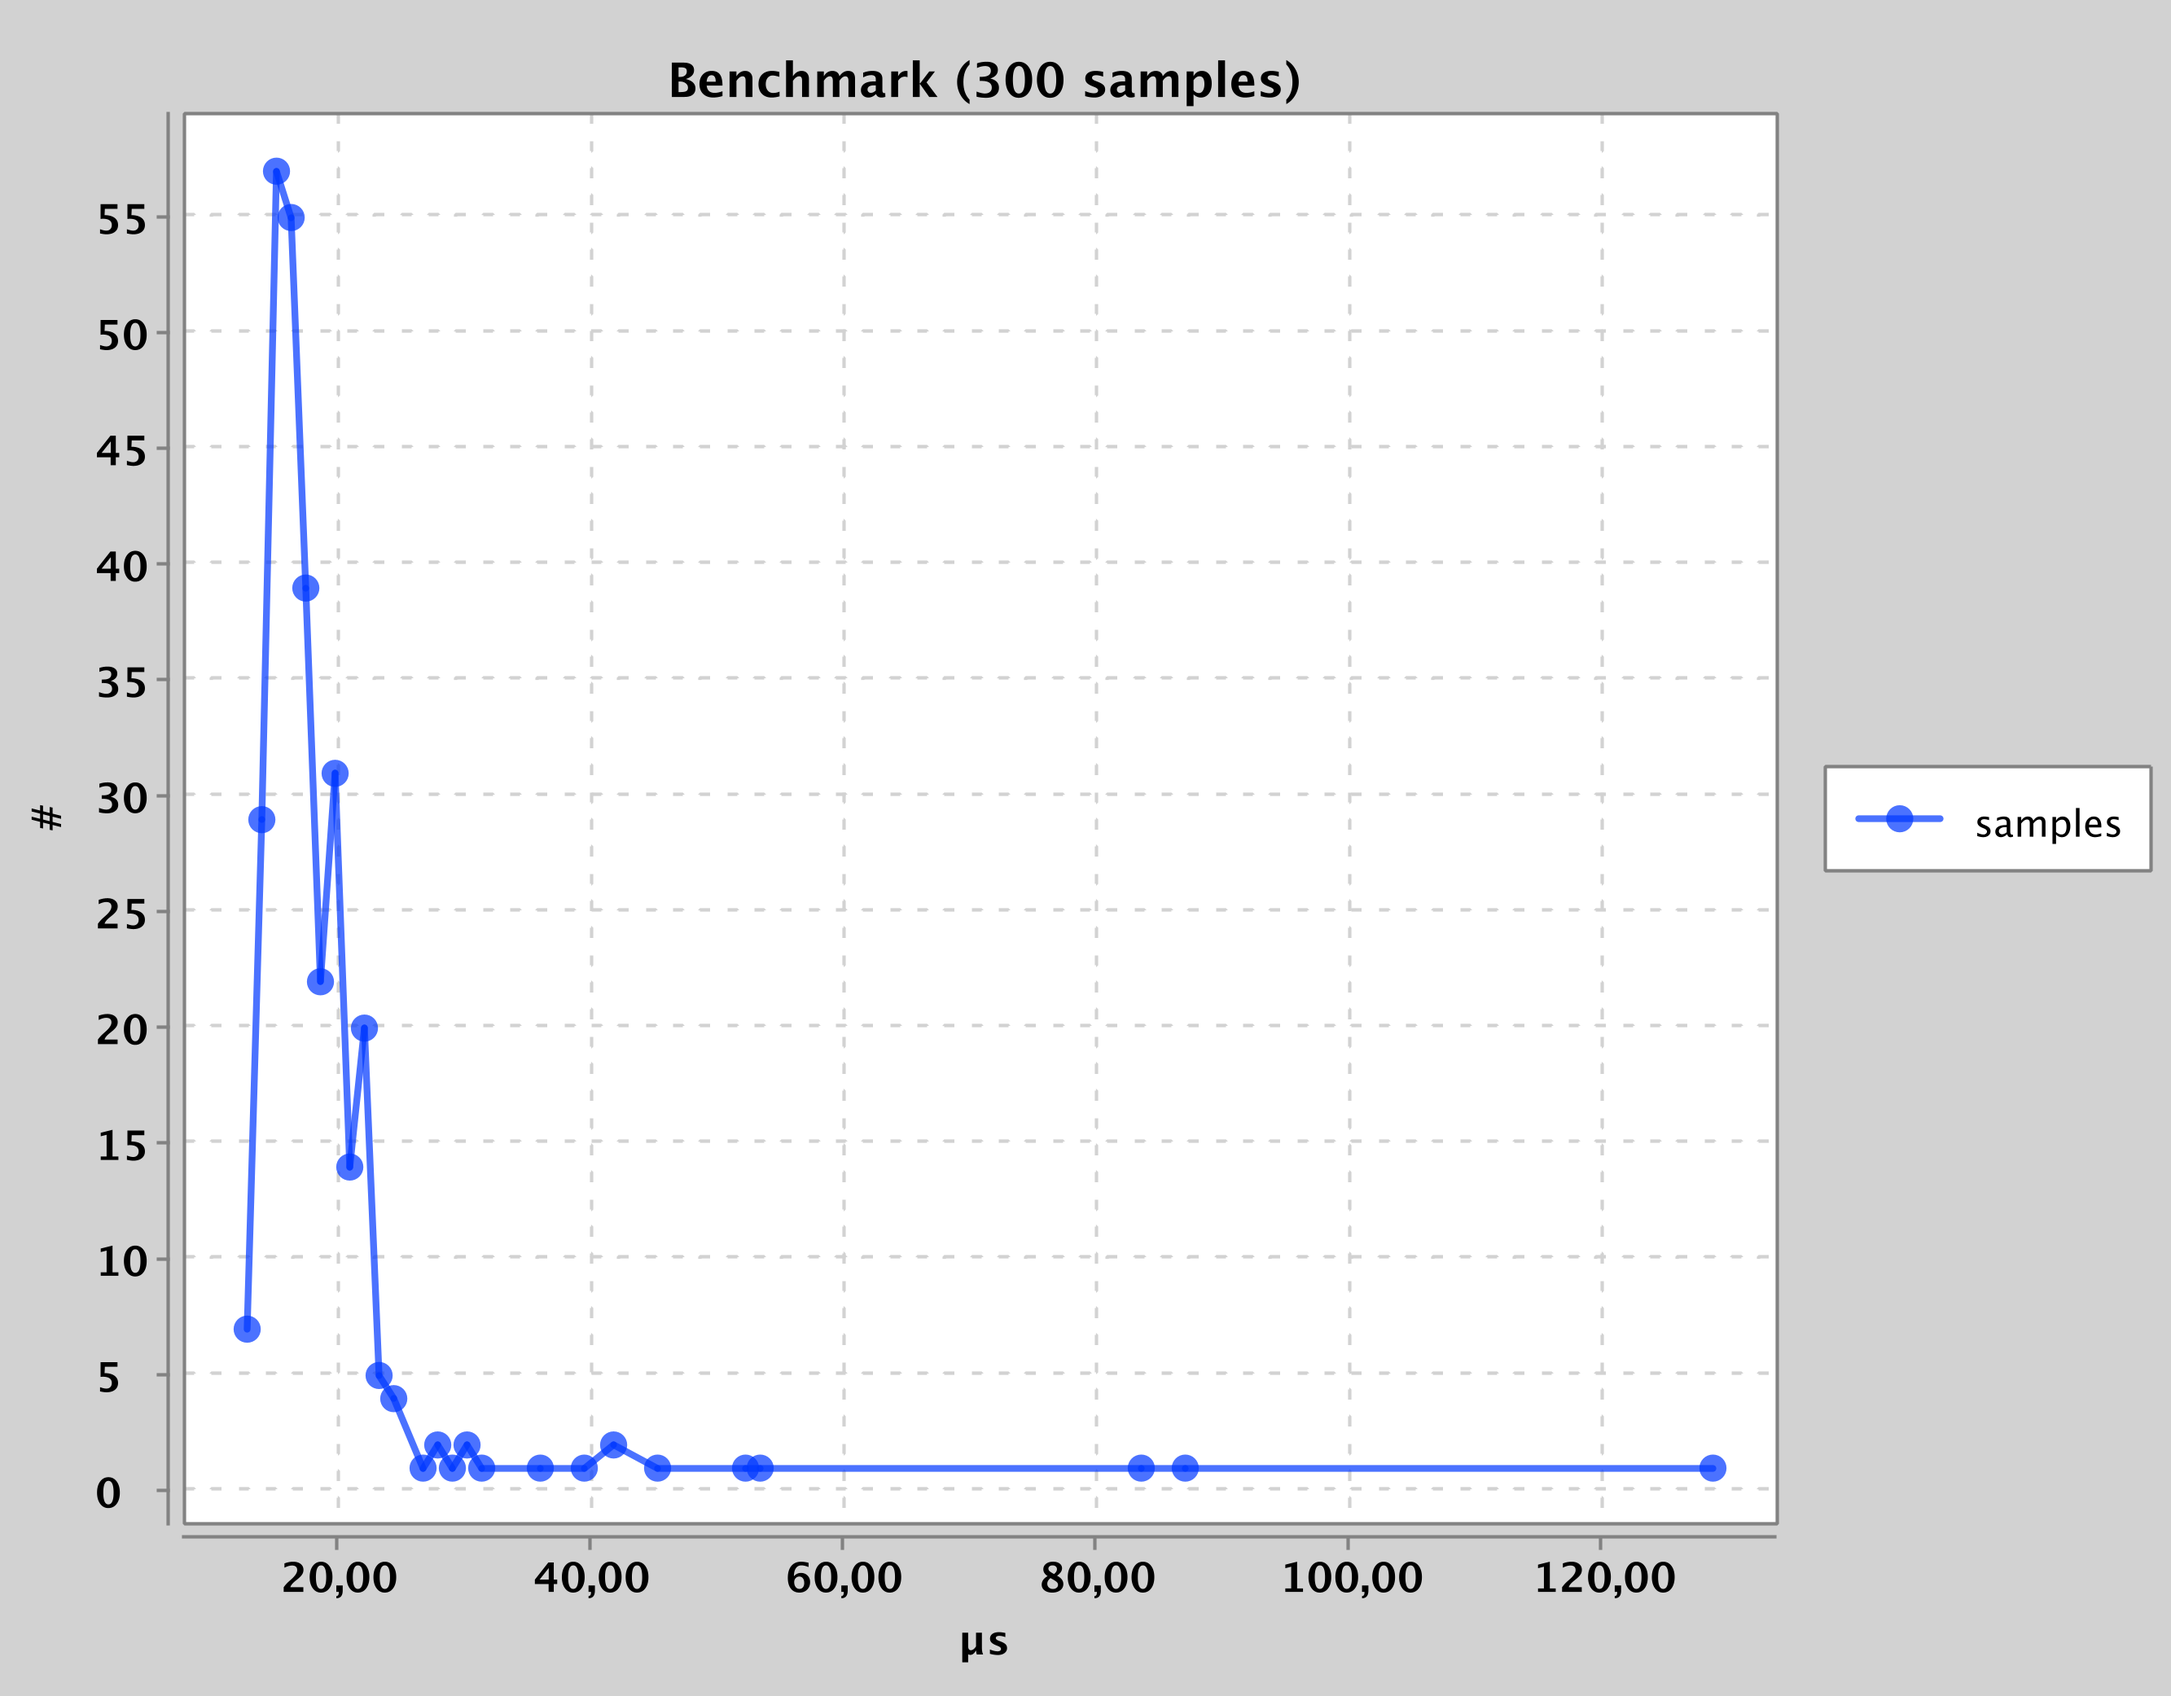
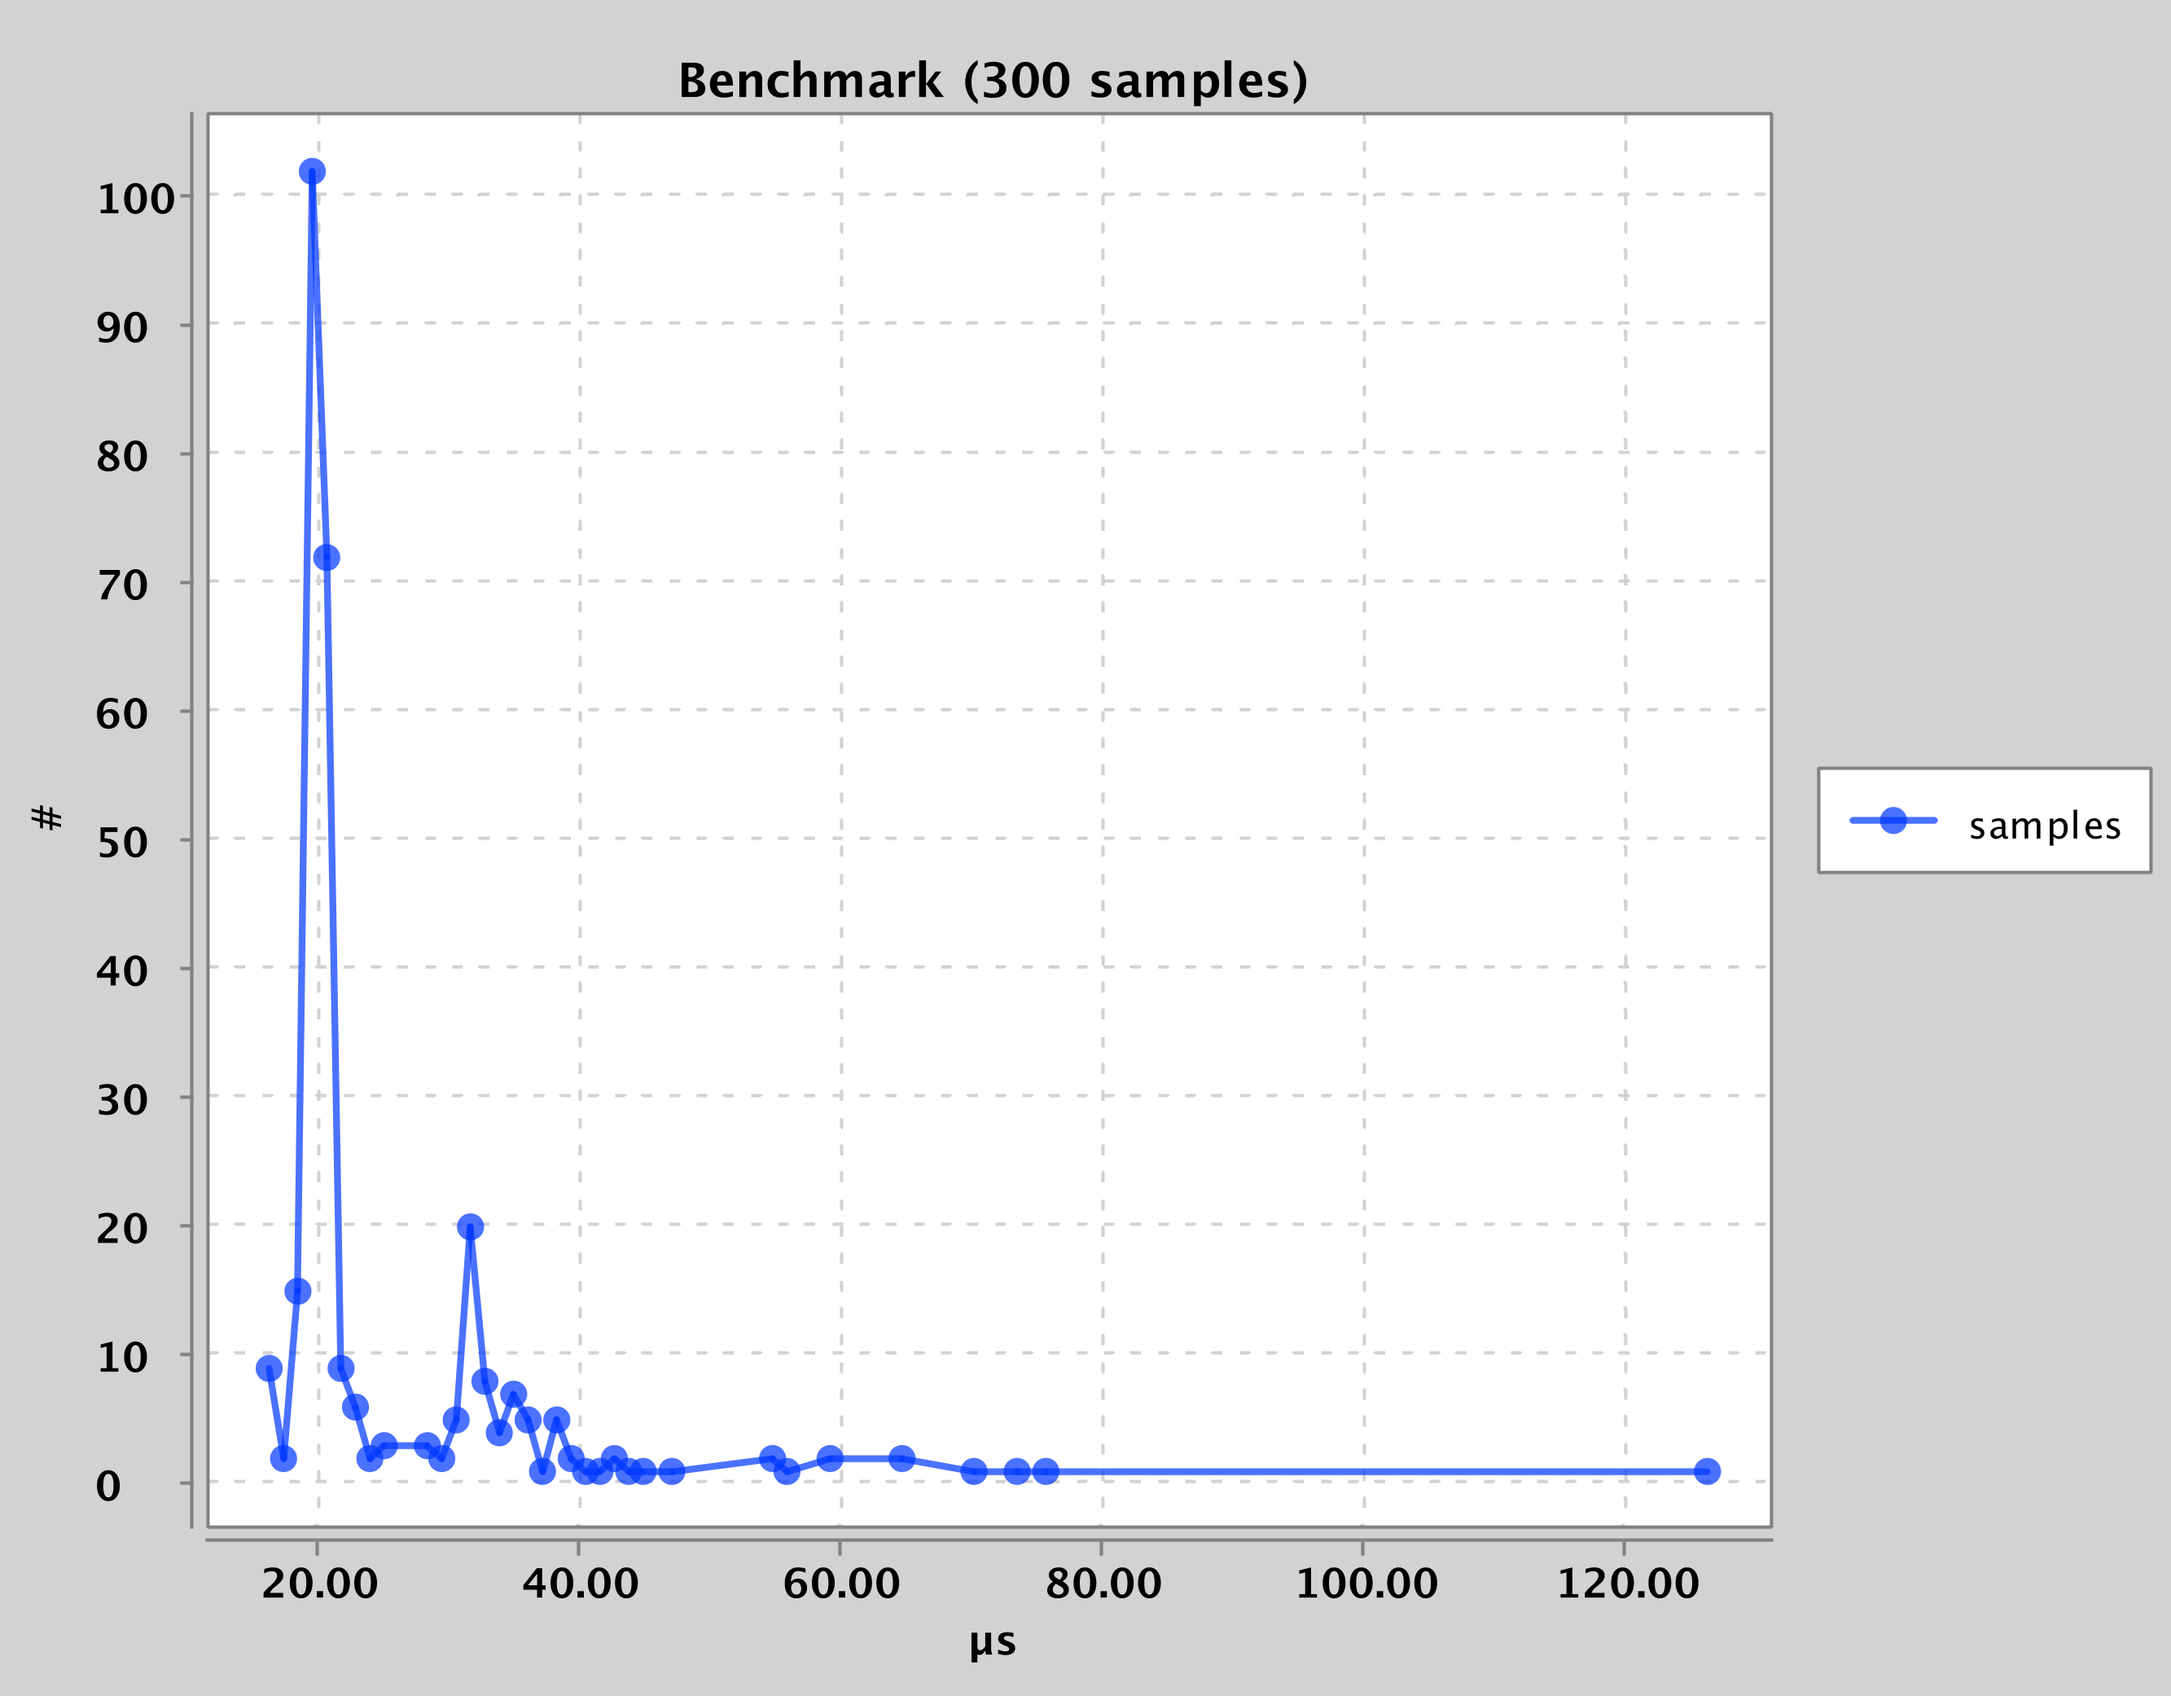
updated benchmark doc

diff --git a/doc/readme/benchmarks.md b/doc/readme/benchmarks.md
@@ -29,7 +29,9 @@ Benchmarking an expression incorporates four phases:
 ```clojure
 (do
   (load-module :benchmark ['benchmark :as 'b])
-  (b/benchmark (+ 1 2 3 4) 120000 10000))
+  
+  ;; add the numbers 0..99
+  (b/benchmark (apply + (range 100)) 1_000_000 10_000))
 ```
 
 The benchmark output: 
@@ -39,14 +41,16 @@ Warmup...
 GC...
 Sampling...
 Analyzing...
-                      Samples :   10000
-          Execution time mean :  460.000ns
- Execution time std-deviation :   67.452ns
-Execution time lower quartile :  455.000ns (25%)
-Execution time upper quartile :  574.000ns (75%)
-Execution time lower quantile :  420.000ns (2.5%)
-Execution time upper quantile :  616.000ns (97.5%)
-                     Outliers :      18
+                      Samples :      10000
+          Execution time mean :    5.114µs
+ Execution time std-deviation :  224.415ns
+Execution time lower quartile :    4.892µs (25%)
+Execution time upper quartile :    5.242µs (75%)
+Execution time lower quantile :    4.629µs (2.5%)
+Execution time upper quantile :    5.441µs (97.5%)
+                 Outliers low :    3.842µs
+                Outliers high :    6.292µs
+                     Outliers :         82
 ```
 
 ### Outliers
@@ -61,7 +65,7 @@ A sample is marked as an outlier if its execution time is lower than `Q1 - 3 * I
 ```clojure
 (do
   (load-module :benchmark ['benchmark :as 'b])
-  (b/benchmark (+ 1 2 3 4) 1000 300 :chart true))
+  (b/benchmark (apply + (range 100)) 1000 300 :chart true))
 ```
 
 ```text
@@ -69,16 +73,18 @@ Warmup...
 GC...
 Sampling...
 Analyzing...
-                      Samples :    300
-          Execution time mean : 14,877 µs
- Execution time std-deviation :  2,761 µs
-Execution time lower quartile : 14,230 µs (25%)
-Execution time upper quartile : 18,289 µs (75%)
-Execution time lower quantile : 13,790 µs (2.5%)
-Execution time upper quantile : 26,689 µs (97.5%)
-                     Outliers :      5
+                      Samples :        300
+          Execution time mean :   21.032µs
+ Execution time std-deviation :    7.798µs
+Execution time lower quartile :   20.371µs (25%)
+Execution time upper quartile :   30.718µs (75%)
+Execution time lower quantile :   17.051µs (2.5%)
+Execution time upper quantile :   58.323µs (97.5%)
+                 Outliers low :        0ns
+                Outliers high :   61.757µs
+                     Outliers :          6
 Generating chart...
-Quantization step width: 4,757 µs 
+Quantization step width: 1.101µs (100 steps)
 Saved chart to 'benchmark.png'.
 ```
 
@@ -91,7 +97,7 @@ Saved chart to 'benchmark.png'.
 ```clojure
 (do
   (load-module :benchmark ['benchmark :as 'b])
-  (b/benchmark (+ 1 2 3 4) 120000 10000 :chart true))
+  (b/benchmark (apply + (range 100)) 1_000_000 10_000 :chart true))
 ```
 
 ```text
@@ -99,16 +105,18 @@ Warmup...
 GC...
 Sampling...
 Analyzing...
-                      Samples :   10000
-          Execution time mean :  462.000ns
- Execution time std-deviation :   85.202ns
-Execution time lower quartile :  456.000ns (25%)
-Execution time upper quartile :  576.000ns (75%)
-Execution time lower quantile :  421.000ns (2.5%)
-Execution time upper quantile :  845.000ns (97.5%)
-                     Outliers :      64
+                      Samples :      10000
+          Execution time mean :    4.933µs
+ Execution time std-deviation :  249.539ns
+Execution time lower quartile :    4.541µs (25%)
+Execution time upper quartile :    4.991µs (75%)
+Execution time lower quantile :    4.408µs (2.5%)
+Execution time upper quantile :    5.176µs (97.5%)
+                 Outliers low :    3.191µs
+                Outliers high :    6.341µs
+                     Outliers :         78
 Generating chart...
-Quantization step width: 141ns
+Quantization step width: 290ns (100 steps)
 Saved chart to 'benchmark.png'.
 ```
 
